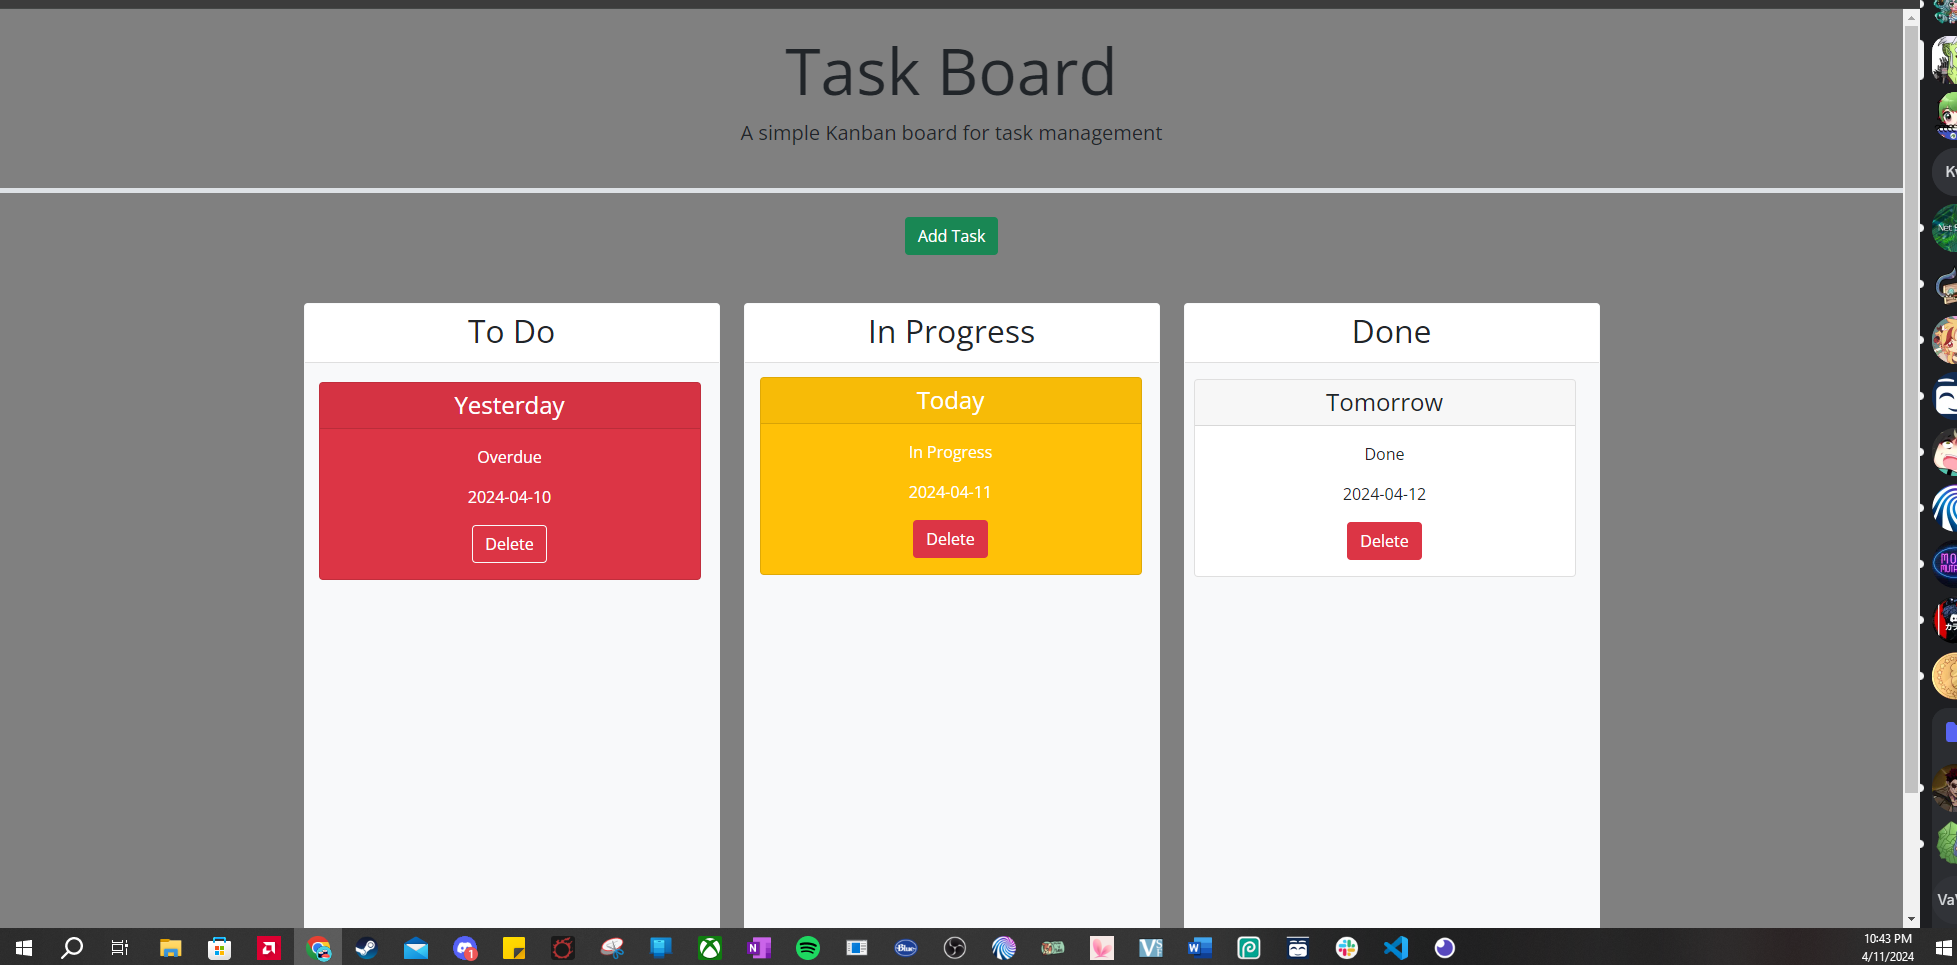
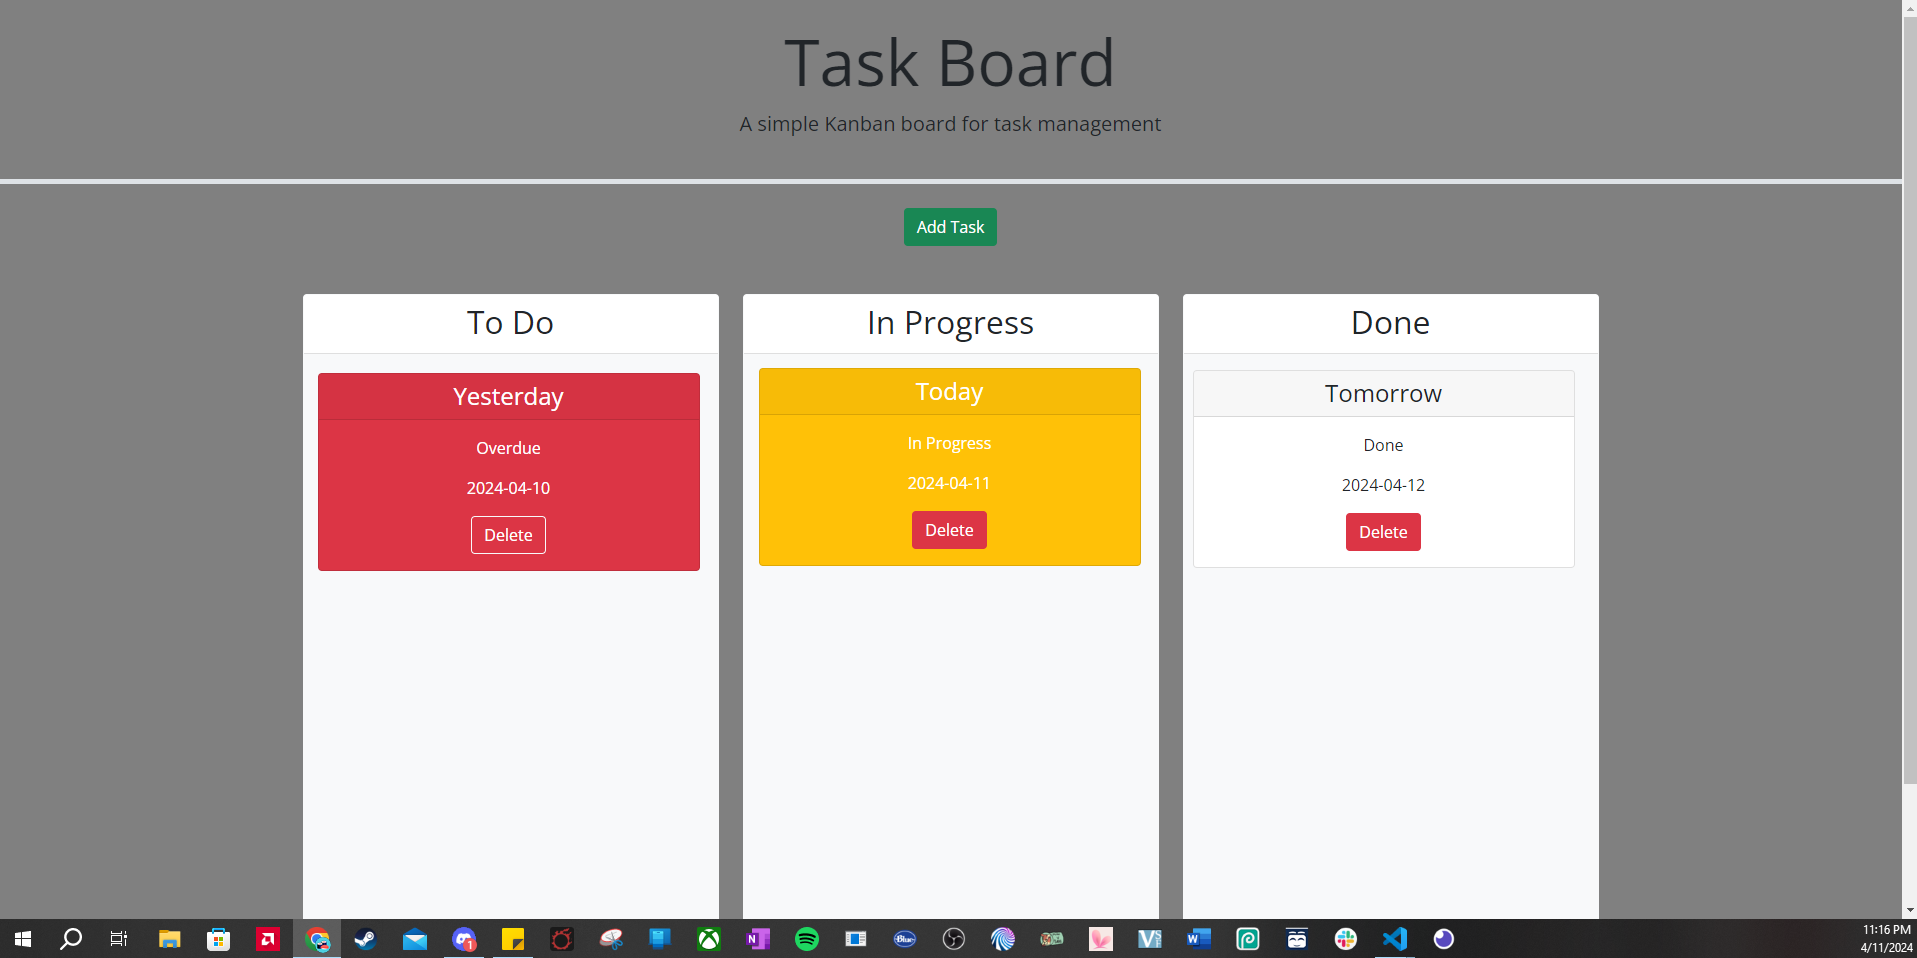
updated screenshot in readme along with link

Changed region(s): [[0.0, 0.3027, 0.8618, 1.0], [0.0, 0.0, 1.0, 0.999], [0.6771, 0.3935, 0.7694, 0.6054]]

diff --git a/README.md b/README.md
@@ -4,4 +4,6 @@
 This project was created for practice with elements that can be manipulated through creating a place to enter and arrange tasks by status, color coded with proximity to due date.
 
 ## Usage
-The page starts out with blank three rows and an Add Task button above. Once clicked, a user can enter a Title, Due Date, and Description of their tasks. If the task is due today, it will be yellow. If the task is overdue, the task will be red. Once created, the tasks can be dragged and dropped across the page to be set for the appropriate column.
+The page starts out with blank three rows and an Add Task button above. Once clicked, a user can enter a Title, Due Date, and Description of their tasks. If the task is due today, it will be yellow. If the task is overdue, the task will be red. Once created, the tasks can be dragged and dropped across the page to be set for the appropriate column. Please visit the [completed page]()
+
+![Screenshot of completed page](./assets/images/Task_Board.PNG)
